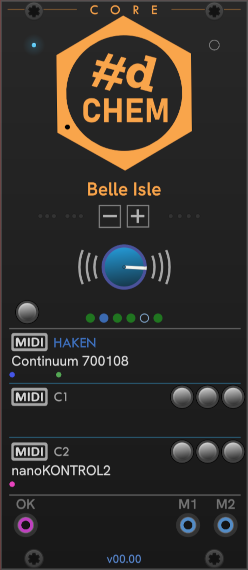
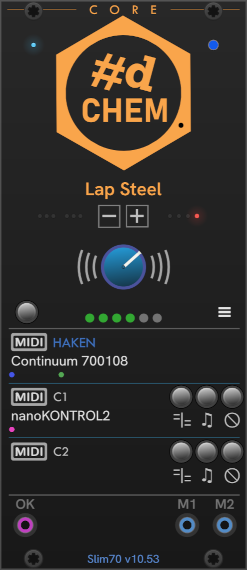
Update docs for Core presets, tweak menus

diff --git a/src/modules/Core/Core-ui.cpp b/src/modules/Core/Core-ui.cpp
@@ -614,11 +614,11 @@ void CoreMenu::appendContextMenu(ui::Menu* menu)
         menu->addChild(new MenuSeparator);
 
         if (my_module->em.is_osmose()) {
-            menu->addChild(createMenuItem("Make System preset database", "", [=]() {
+            menu->addChild(createMenuItem("Scan System preset database", "", [=]() {
                 ui->em_status_label->text("Scanning Full System presets...");
                 my_module->load_full_system_presets();
             }));
-            menu->addChild(createMenuItem("Make User preset database", "(page 1)", [=]() {
+            menu->addChild(createMenuItem("Scan User preset database", "(page 1)", [=]() {
                 ui->em_status_label->text("Scanning User presets (page 1)...");
                 my_module->load_full_user_presets();
             }));
@@ -646,11 +646,11 @@ void CoreMenu::appendContextMenu(ui::Menu* menu)
                 // menu->addChild(createMenuItem("Page 10", "", [my_module]() {}));
             }));
         } else {
-            menu->addChild(createMenuItem("Quick System presets", "", [=]() {
+            menu->addChild(createMenuItem("Quick scan - System presets", "", [=]() {
                 ui->em_status_label->text("Scanning quick System presets...");
                 my_module->load_quick_system_presets();
             }));
-            menu->addChild(createMenuItem("Make full System preset database", "", [=]() {
+            menu->addChild(createMenuItem("Full scan - System preset database", "", [=]() {
                 ui->em_status_label->text("Scanning full System presets...");
                 my_module->load_full_system_presets();
                 ui->create_stop_button();
@@ -658,11 +658,11 @@ void CoreMenu::appendContextMenu(ui::Menu* menu)
 
             menu->addChild(new MenuSeparator);
 
-            menu->addChild(createMenuItem("Quick User presets", "", [=]() {
+            menu->addChild(createMenuItem("Quick scan - User presets", "", [=]() {
                 ui->em_status_label->text("Scanning quick User presets...");
                 my_module->load_quick_user_presets();
             }));
-            menu->addChild(createMenuItem("Make full User preset database", "", [=]() {
+            menu->addChild(createMenuItem("Full scan - User preset database", "", [=]() {
                 ui->em_status_label->text("Scanning full User presets...");
                 my_module->load_full_user_presets();
                 ui->create_stop_button();

diff --git a/doc/core.md b/doc/core.md
@@ -3,34 +3,95 @@
 The **Core** module is essential.
 It maintains the MIDI connection and handles all communications with an Eagan Matrix device. All the other modules must be connected to a **Core**.
 
-Sometimes MIDI connections don't work unless there is also one of the VCV Rack **Audio** modules in the patch that is connected to a driver or audio interface.
+MIDI connections usually don't work unless there is also one of the VCV Rack **Audio** modules in the patch and connected to a driver or audio interface.
 You don't have actually *use* the audio module, but it must be present and connected.
 If you're starting a new Rack patch, add one of the VCV **Audio** modules first, then add a **Core**.
 
-After **Core**, you'll want a **CHEM Preset**, but that's getting ahead of ourselves. Let's focus on **Core**.
+After **Core**, you'll want to scan presets and use **CHEM Preset**, but that's getting ahead of ourselves. Let's focus on **Core**.
 
 ![Connected CHEM Core](./image/core.png)
 
-**Fig 1.** *Core connected to an Slim70, with a Korg nanoKONTROL2 on C2.*
+**Fig 1.** *Core connected to a Slim70, with a Korg nanoKONTROL2 on C2.*
 
-When added to the patch CHEM automatically tries to find a connected EaganMatrix device, by name, connecting to the first one it finds.
-Press the **HAKEN** MIDI button to choose from the Eagan Matrix devices that are connected to the computer.
+When added to the patch, Core automatically tries to find a connected EaganMatrix device by name, and connects to the first one it finds.
+If you have more EaganMatrix devices, press the **HAKEN** MIDI button to choose from the Eagan Matrix devices that are connected to the computer.
+If you're using a virtual cable, intermediate MIDI router, you should be able to add the connection under _Any MiDI device (advanced)_.
+
 Once you've successfuly connected to a device,
 the moving dots under the button indicate the transmission of MIDI data to and from the device.
 The text in the footer shows the type of EM device and the firmware version number.
 
 The name of the currently selected preset is shown under the **#d CHEM** logo.
 
-The **-** and **+** buttons under the preset name move to the previous and next presets, in System order.
-You may be surprised that this isn't the same order as the preset movement buttons on the device itself for system presets. These buttons are sending simple preset movement commands provided by the EM firmware, and this is what they do.
+The **-** and **+** buttons under the preset name move to the previous and next presets.
 
-The Big blue knob is Volume (aka Attenuation).
+On haken devices, you may be surprised that this isn't the same order as the preset movement buttons on the device itself.
+These buttons are sending simple preset movement commands provided by the EM firmware, and this is what they do.
+
+On the Osmose, if preset databases have been built, they navigate in the sort order that the preset databases are in.
+
+The Big blue knob is Volume (Attenuation on Haken devices, and Post level on Osmose).
 
 The button above the **HAKEN** MIDI button is the **MIDI Reset** button.
 It resets the connection, for use when there may be a connection glitch.
 To clear all connections, Ctrl+Click the **MIDI Reset** button. **Core** will immediately start scanning for EM devices to connect to.
 
 To control a second EM Device, add another **Core** to the patch.
+
+## Creating preset databases
+
+With a fresh installation of CHEM, or with a new or updated EM instrument, you will want to build User and System preset databases to get full CHEM functionality.
+Scanning presets from your instrument is a time-consuming process.
+This is best performed when you have sufficient free time.
+Scanning System presets on an Osmose can take almost an hour. Haken instruments are faster.
+
+For Haken devices, you can do a Quick scan.
+A Quick scan is much faster than building a full database, but some metadata such as macro definitions and preset authors will not be available for searching.
+
+A Full scan captures complete information about each preset by fully loading it on the device.
+This process is much slower than a quick scan, and it is the only type of scan available on Osmose.
+
+It is best to perform preset scanning with a patch containing only:
+
+- Any one VCV Audio (Audio, Audio 8 or Audio 16) module connected to a driver or audio interface.
+- CHEM **Core**
+- CHEM **Preset**
+
+Start with a blank VCV patch, and add VCV Audo, CHEM **Core**, and CHEM **Preset**.
+Put the CHEM modules next to each other so that they'll connect.
+We'll start with User presets, so slect the _User_ tab in **Preset**.
+
+Your patch should look similar to this:
+
+![Patch for scanning presets](./image/core-scan.png)
+
+Click the **Core actions** hamburger menu, and select the _presets_ submenu.
+The menu will be different for Haken and Osmose instruments as shown below, Haken on the left, Osmose on the right:
+
+![Preset scanning menu](./image/scan-menu.png)
+
+Choose one of the scanning options presented for **User** presets.
+
+If you haven't saved any User presets on your Osmose yet, you can go ahead and scan system preset: select the _System_ tab in **Preset**, and choose _Scan System Preset database_ from the **Core** _Core actions menu_. 
+A full preset database for the Osmose takes almost an hour.
+
+For Haken instruments, the Quick scan is fastest, but captures less detail.
+On Osmose, a complete System scan can take an hour.
+A scan in progress looks like this (here, on Osmose):
+
+![Preset scan in progress](./image/scan-progress.png)
+
+While the CHEM logo is spinning, do not to interact with Rack or your instrument.
+
+When scanning User presets (especially on Osmose), if you know the name of the last User preset you have, you can look for it choose _Stop Scan_ to cut the scan short when you see that the scan has progressed past it.
+CHEM doesn't have a way to know how many presets are on the device in advance, so it scans all available slots.
+
+If you stop the scan before CHEM has scanned all presets, the database will be usable, but incomplete.
+To get a complete preset database, Use the menu to clear the incomplete database, and re-scan.
+
+Osmose allows for a huge number of user presets. The basic User scan is just the first page of 128 slots.
+If you have more user presets saved, you can scan additional pages from 2-5.
+If you need more user pages, contact me and I can update CHEM with the ability to scan more.
 
 ## Connecting other CHEM modules
 

diff --git a/doc/preset.md b/doc/preset.md
@@ -1,18 +1,14 @@
 # CHEM Preset
 
-**Preset** provides fast access to all the presets installed on your device.
+**Preset** provides fast access to the presets installed on your device.
 
-When first added to Rack and connected to an EaganMatrix device,
- **Preset**  automatically scans for available presets on the device.
-Once System presets have been scanned, a list is saved in the Rack User folder and you generally don't need to scan again.
+When starting to use a new EaganMatrix device or first using CHEM Preset and Play,
+you must first manually build databases for System and User presets on the device.
+The process of building the databases can take a significant amount of time (which is why it isn't automatic).
+This can take nearly an hour on Osmose for System presets.
 
-While scanning is active, a spinning CHEM logo appears over the **Preset** and **Core** modules.
-Avoid playing the Haken device or interacting with Rack while preset scanning is in underway.
-
-By default User presets are always scanned when you open the User tab the first time in a session.
-This ensures that the list is always current with what you may have loaded, unloaded, or edited.
-If you don't edit presets often and want to avoid the scan, you can choose *Use cached User presets* from the *Preset Actions* hamburger menu in the middle right of the module.
-When using cached presets, a scan occurs only once for a given EM device.
+Scanning System and User presets is initiated from the [**Core** module](./core.md#chem-core) **Core actions menu**.
+See the [**Core** module documentaiton](./core.md#chem-core) for details.
 
 ![CHEM Preset module](./image/preset.png)
 
@@ -45,12 +41,8 @@ For example, most EM devices contain no presets tagged with **DP** (Demo Preset)
 
 ![CHEM Preset search](./image/preset-search.png)
 
-The default fast scan of presets when initializing the module does not include all metadata.
-Category information is available, but Author information is not included.
-As you load presets, full metadata is captured for that preset and the database is updated.
-So over time, full information is added for the presets you've loaded into the device.
-If you want full information available, you can run *build full database* from the *Preset Actions* menu.
-You should only need to ever run this once for a given EM device.
+A "Quick scan" of presets does not include all metadata.
+For example, Category information is available, but Author information is not included.
 
 ## Preset actions menu
 
@@ -65,11 +57,7 @@ The "hamburger" menu on the right is the *Preset Actions* menu.
 | **Sort by Natural (system) order** | Arrange the presets in the system order. This is the same order that presets are loaded when using the *Previous*/*Next* buttons on the **Core** module. |
 | **Show live preset** | Scrolls the *live* preset into view. |
 | **Track live preset** | The *current* preset follows the *live* preset. |
-| **Use cached User presets** | Don't rescan user presets when opening the User tab the first time. If you have added or removed presets, the list in the User tab won't be accurate. To get back in sync, choose *Refresh User Presets* |
 | **Keep search filters** | When enabled, metadata filters are retained across invocations of Rack with the same Rack patch. If not enabled, each invocation starts fresh with all presets shown. |
-| **Refresh User presets** | Re-scan the list of User presets. This is only needed after changing presets on the device, and you have *Use cached User presets* enabled. |
-| **Refresh System presets** | Re-scan the list of System presets. This is needed only after loading a different firmware version.  |
-| **Build full User/System database** | The default fast scanning of presets doesn't capture complete preset metadata. It doesn't include the Author, if present, for example. If you want to be able to search on complete metadata, you can build a complete database for the current tab. This requires loading every preset present on the device. This will take some time (allow 1/2 hour for System presets). You should not play the surface or interact with Rack during the scan. |
 
 ## Right-side controls
 

diff --git a/README.md b/README.md
@@ -6,7 +6,7 @@ CHEM (**C**ontroller for the **H**aken **E**agan **M**atrix) is the successor to
 
 Haken EaganMatrix firmware version 10.40 added many features and improvements to the MIDI protocol.
 The changes are big enough to warrant a redesign of the modularization and user interface, hence a new plugin.
-Today it is recommended to be running firmware 10.52, but 10.4x should be ok.
+Today it is recommended to be running firmware 10.52, but 10.4x should be fine.
 
 [![Build Status](https://github.com/Paul-Dempsey/pachde-CHEM/actions/workflows/build-plugin.yml/badge.svg)](https://github.com/Paul-Dempsey/pachde--CHEM/actions/workflows/build-plugin.yml)
 
@@ -14,16 +14,21 @@ To download the latest build, see the [Nightly Release](https://github.com/Paul-
 
 Read the [Documentation](./doc/index.md#pachde-chem) for more information on **#d CHEM**.
 
-## June 10 2025
+## July 11 2025
 
-After taking a break from overlay macros to prototype Preset/Play module for the Osmose,
-I realize that some core functions need to be re-architected and improved.
-This probably entails a period of time with a high frequeny of broken builds and instability,
-so I'll be working in a side branch instead of disturbing main.
-This means that you won't see new "nightly" release builds for a while.
+Osmose presets support is integrated!
 
-Meanwhile, CHEM is working very well for devices other than the Osmose,
- and even for the Osmose everything but Preset and Play are working.
+Supporting presets for Osmose brings some significant changes to the way presets are managed.
+When starting to use a new EaganMatrix device or first using CHEM,
+you must manually build databases for System and User presets on the device
+in order to use preset-related functions such as the Preset and Play modules.
+
+This is now completely manual, because the process of building the databases can take a significant amount of time.
+It can take an hour on Osmose for System presets. The good news is that the System databases must be built only once.
+
+After adding user presets on the device, you must re-scan User presets to pick up your changes.
+
+See the documentation for Preset and Core for instructions.
 
 > **Note** –
 > Pachde and **CHEM** are not officially affiliated with or sponsored by Haken Audio.

diff --git a/doc/index.md b/doc/index.md
@@ -5,7 +5,8 @@
 To get started, you must have installed VCV Rack and download the CHEM `.vcvplugin` file from GitHub.
 To download and install the latest build of **#d CHEM**, see the [Nightly Release](https://github.com/Paul-Dempsey/pachde-CHEM/releases/tag/Nightly) page.
 
-When CHEM is released (coming soon), you will be able to subscribe to the **#d CHEM** plugin in the VCV Rack library. A subscription is recommended so that you are automatically updated when the plugin is revised with new modules, features, or bug fixes.
+When CHEM is released, you will be able to subscribe to the **#d CHEM** plugin in the VCV Rack library.
+A subscription is recommended so that you are automatically updated when the plugin is revised with new modules, features, and bug fixes.
 
 Start with the [**Core**](./core.md#chem-core) module.
 
@@ -25,6 +26,7 @@ Start with the [**Core**](./core.md#chem-core) module.
 | [**Sustain**](./sus.md#chem-sustain-sostenuto-and-sostenuto-2)  | On-screen Sustain |
 | [**Sostenuto**](./sus.md#chem-sustain-sostenuto-and-sostenuto-2)  | On-screen Sostenuto |
 | [**Sostenuto 2**](./sus.md#chem-sustain-sostenuto-and-sostenuto-2)  | On-screen Sostenuto 2 |
+| [**MidiPad**](./midipad.md#chem-midipad) | 4x4 custom Midi pads. |
 | [**Settings**](./settings.md#chem-settings) | Surface direction, XYZ MIDI assignments, Polyphony, Note processing, Rounding, MIDI routing, and more. |
 
 More modules are planned to address macros 7-90 (which has interesting challenges in the context of VCV Rack).

diff --git a/doc/play.md b/doc/play.md
@@ -13,7 +13,7 @@ Once you have a list of presets, click the name of the preset in the list to loa
 > **Important** —
 > Most of the keyboard controls you'd expect to use for navigating, selecting, and editing are reserved by VCV Rack.
 > These include Delete, Page Up, Page Down, Arrow keys, etc., so take care.
-> Your interactions with Play are mouse-driven.
+> Your interactions with Play are mainly mouse-driven.
 
 When connected, the live preset on your device is shown in the box below the playlist.
 Click the **Heart** (favorite) button to add the live preset to your playlist.
@@ -44,9 +44,7 @@ The **current** and **live** _Two Chords_, and the selected _Unanswered Question
 
 ### The Play "hamburger" menu
 
-More options for populating and editing a playlist are in the "hamburger" menu at the top right of the preset list.
-You can add all User presets and system presets to the list.
-If you don't want that many, you can edit the list down.
+More options for editing a playlist are in the "hamburger" menu at the top right of the preset list.
 
 ![Play menu](./image/play-menu-2.png)
 

diff --git a/TODO.md b/TODO.md
@@ -2,14 +2,31 @@
 
 ## General
 
+- Unify preset file formats
 - **Core** Process() usually isn't called when there is no audio device selecteed.
   We can check for this and display a message to tell user they need to connect an Audio device to Rack.
 - Preset and Play (Core?): onRandomize select random preset
-- Bug: rounding lights aren't quite right
+- Bug: rounding lights aren't quite same as Continuum
 - Reconcile host availability states across modules ( `connected()`/`ready()` ...)
 - color picker
   - choose text syntax?
-  - 100% transparent option, or transparency slider
+  - 100% transparent option
+  - transparency slider
+
+## Core
+
+- Fix: Switching devices always requires a reset.
+- Fix: Scan should always reset list, not load saved
+
+## Preset
+
+- Fix: Often requires clicking tab to refresh list.
+- Progress indicator during run delay
+- Don't show preset load prompt until run delay elapsed (i.e. until list availability is actually known).
+
+## Play
+
+- Append playlist page
 
 ## Midi pad
 
